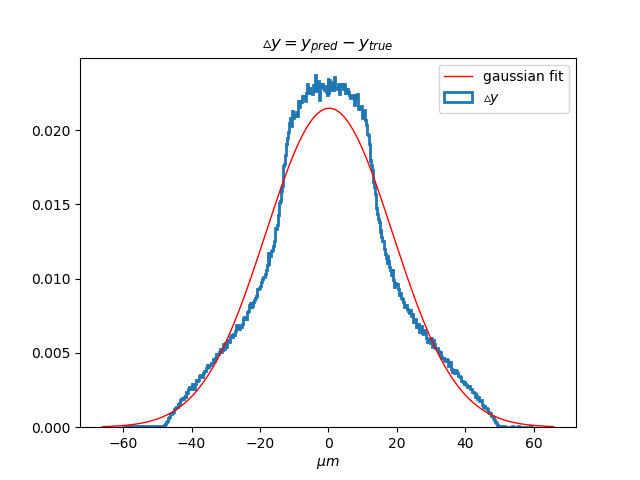
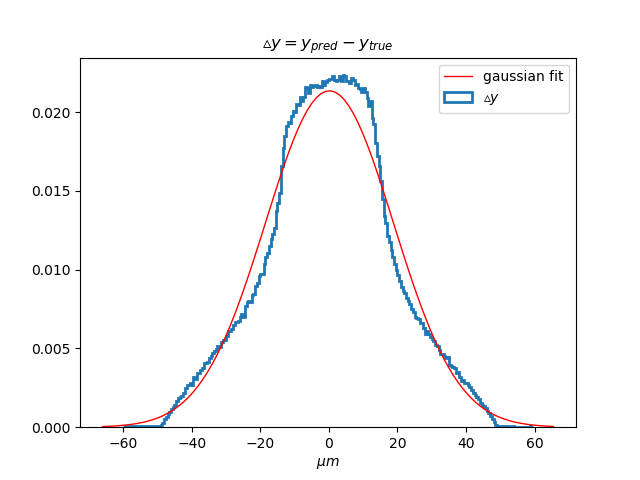
chks post new centering

diff --git a/code/find_hit_position.py b/code/find_hit_position.py
@@ -34,7 +34,7 @@ f = h5py.File('h5_files/train_d49301_d49341_%s.hdf5'%(h5_date), 'r')
 pix_train = f['train_hits'][...]
 cota_train = f['cota'][...]
 cotb_train = f['cotb'][...]
-x_train = f['x'][...] #pav = pixelav
+x_train = f['x'][...] 
 y_train = f['y'][...]
 angles_train = np.hstack((cota_train,cotb_train))
 f.close()
@@ -53,7 +53,7 @@ f.close()
 # Model configuration
 batch_size = 128
 loss_function = 'mse'
-n_epochs = 1
+n_epochs = 3
 optimizer = Adam(lr=0.001)
 validation_split = 0.3
 
@@ -182,7 +182,7 @@ plt.close()
 mean_x, sigma_x = norm.fit(residuals_x)
 print("mean_x = %0.2f, sigma_x = %0.2f"%(mean_x,sigma_x))
 
-plt.hist(residuals_x, bins=np.arange(-60,60,0.25), histtype='step', density=True,linewidth=2, label=r'$\vartriangle x$')
+plt.hist(residuals_x, bins=np.arange(-60,60,0.5), histtype='step', density=True,linewidth=2, label=r'$\vartriangle x$')
 xmin, xmax = plt.xlim()
 x = np.linspace(xmin, xmax, 100)
 p = norm.pdf(x, mean_x, sigma_x)
@@ -209,7 +209,7 @@ plt.close()
 mean_y, sigma_y = norm.fit(residuals_y)
 print("mean_y = %0.2f, sigma_y = %0.2f"%(mean_y,sigma_y))
 
-plt.hist(residuals_y, bins=np.arange(-60,60,0.25), histtype='step', density=True,linewidth=2, label=r'$\vartriangle y$')
+plt.hist(residuals_y, bins=np.arange(-60,60,0.5), histtype='step', density=True,linewidth=2, label=r'$\vartriangle y$')
 xmin, xmax = plt.xlim()
 x = np.linspace(xmin, xmax, 100)
 p = norm.pdf(x, mean_y, sigma_y)
